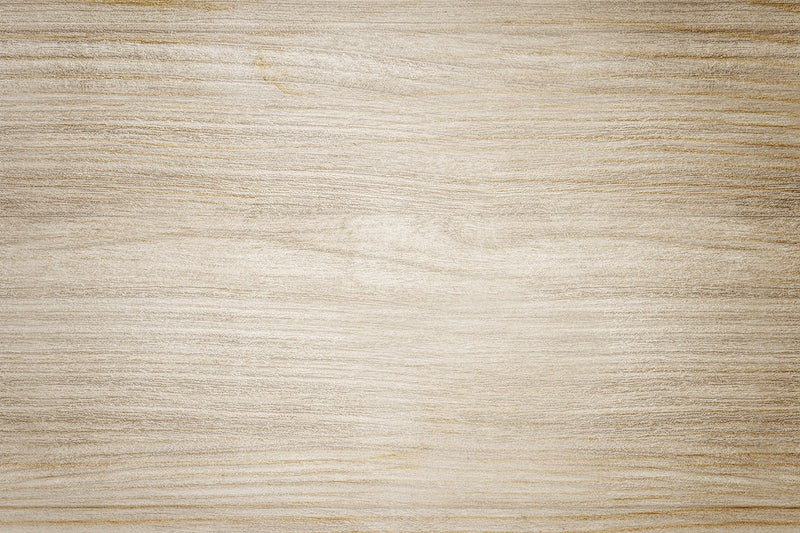
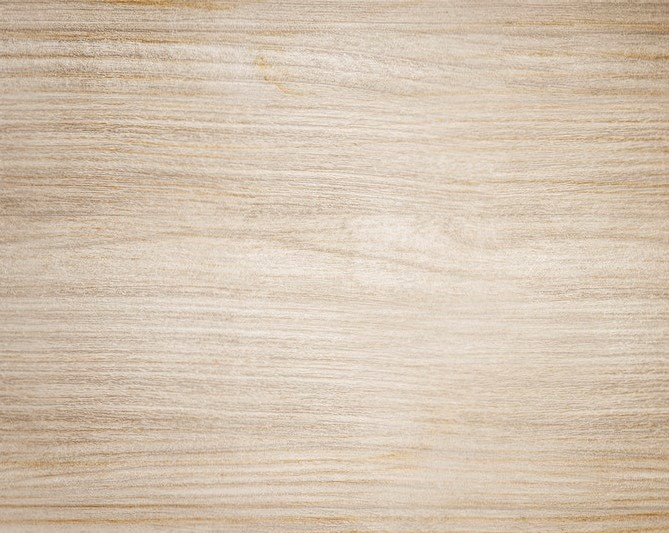
styling

diff --git a/src/App.js b/src/App.js
@@ -2,14 +2,15 @@ import "./App.css";
 import Game from "./Game";
 import React from "react";
 import LabyrinthGame from "./LabyrinthGame";
+import img from "./board.jpg";
 
 function App() {
   return (
     <div
       style={{
         height: window.innerHeight + 100,
-        backgroundImage:
-          "url(https://img.rawpixel.com/private/static/images/website/2022-05/rm451-bg-06.jpg?w=800&dpr=1&fit=default&crop=default&q=65&vib=3&con=3&usm=15&bg=F4F4F3&ixlib=js-2.2.1&s=bd96e6486ffbd66537cb584df8ce4cb2)",
+        backgroundImage: `url(${img})`,
+        // "url(https://img.rawpixel.com/private/static/images/website/2022-05/rm451-bg-06.jpg?w=800&dpr=1&fit=default&crop=default&q=65&vib=3&con=3&usm=15&bg=F4F4F3&ixlib=js-2.2.1&s=bd96e6486ffbd66537cb584df8ce4cb2)",
       }}
     >
       <LabyrinthGame />

diff --git a/src/LabyrinthGame.js b/src/LabyrinthGame.js
@@ -17,6 +17,8 @@ const Button = ({ label, onClick }) => {
         height: 40,
         backgroundColor: "white",
         borderRadius: 30,
+        marginLeft: 10,
+        marginRight: 10,
       }}
       onClick={onClick}
     >
@@ -96,10 +98,9 @@ const LabyrinthGame = () => {
           display: "flex",
           justifyContent: "space-between",
           alignItems: "center",
-          paddingRight: 20,
         }}
       >
-        <div>Level: {level}</div>
+        <div style={{ marginLeft: 10, marginRight: 10 }}>Level: {level}</div>
 
         {safe && <Button label={"GO"} onClick={go}></Button>}
       </div>
